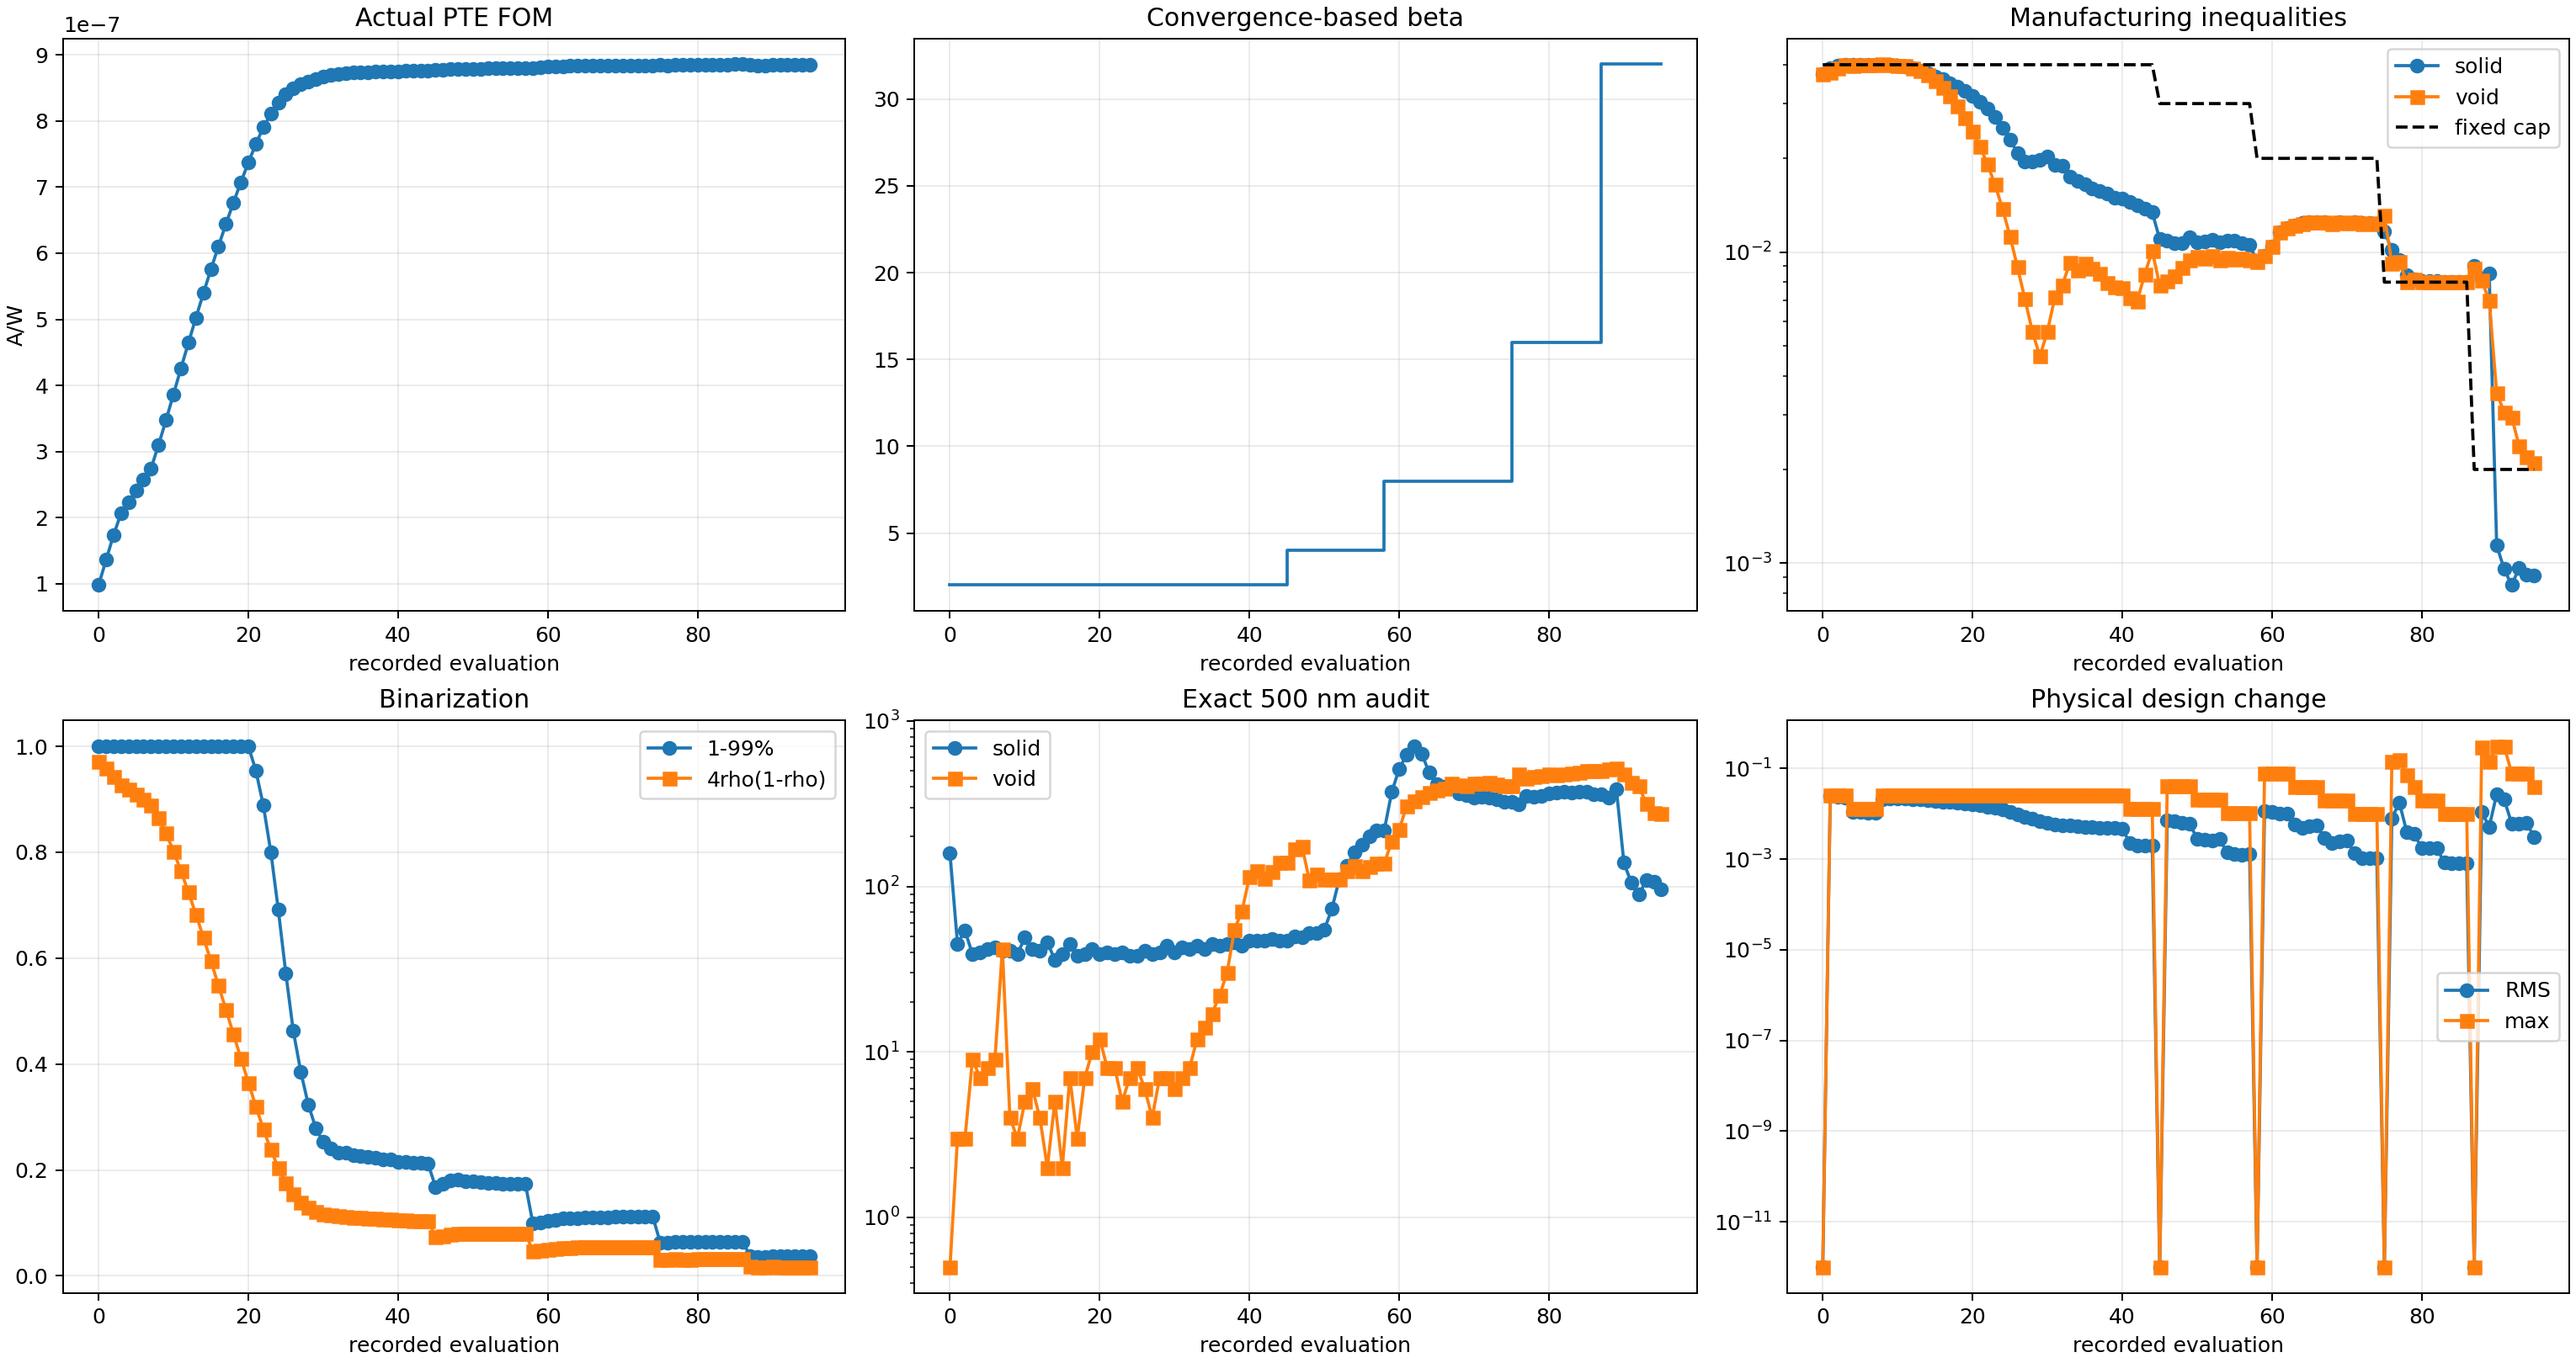
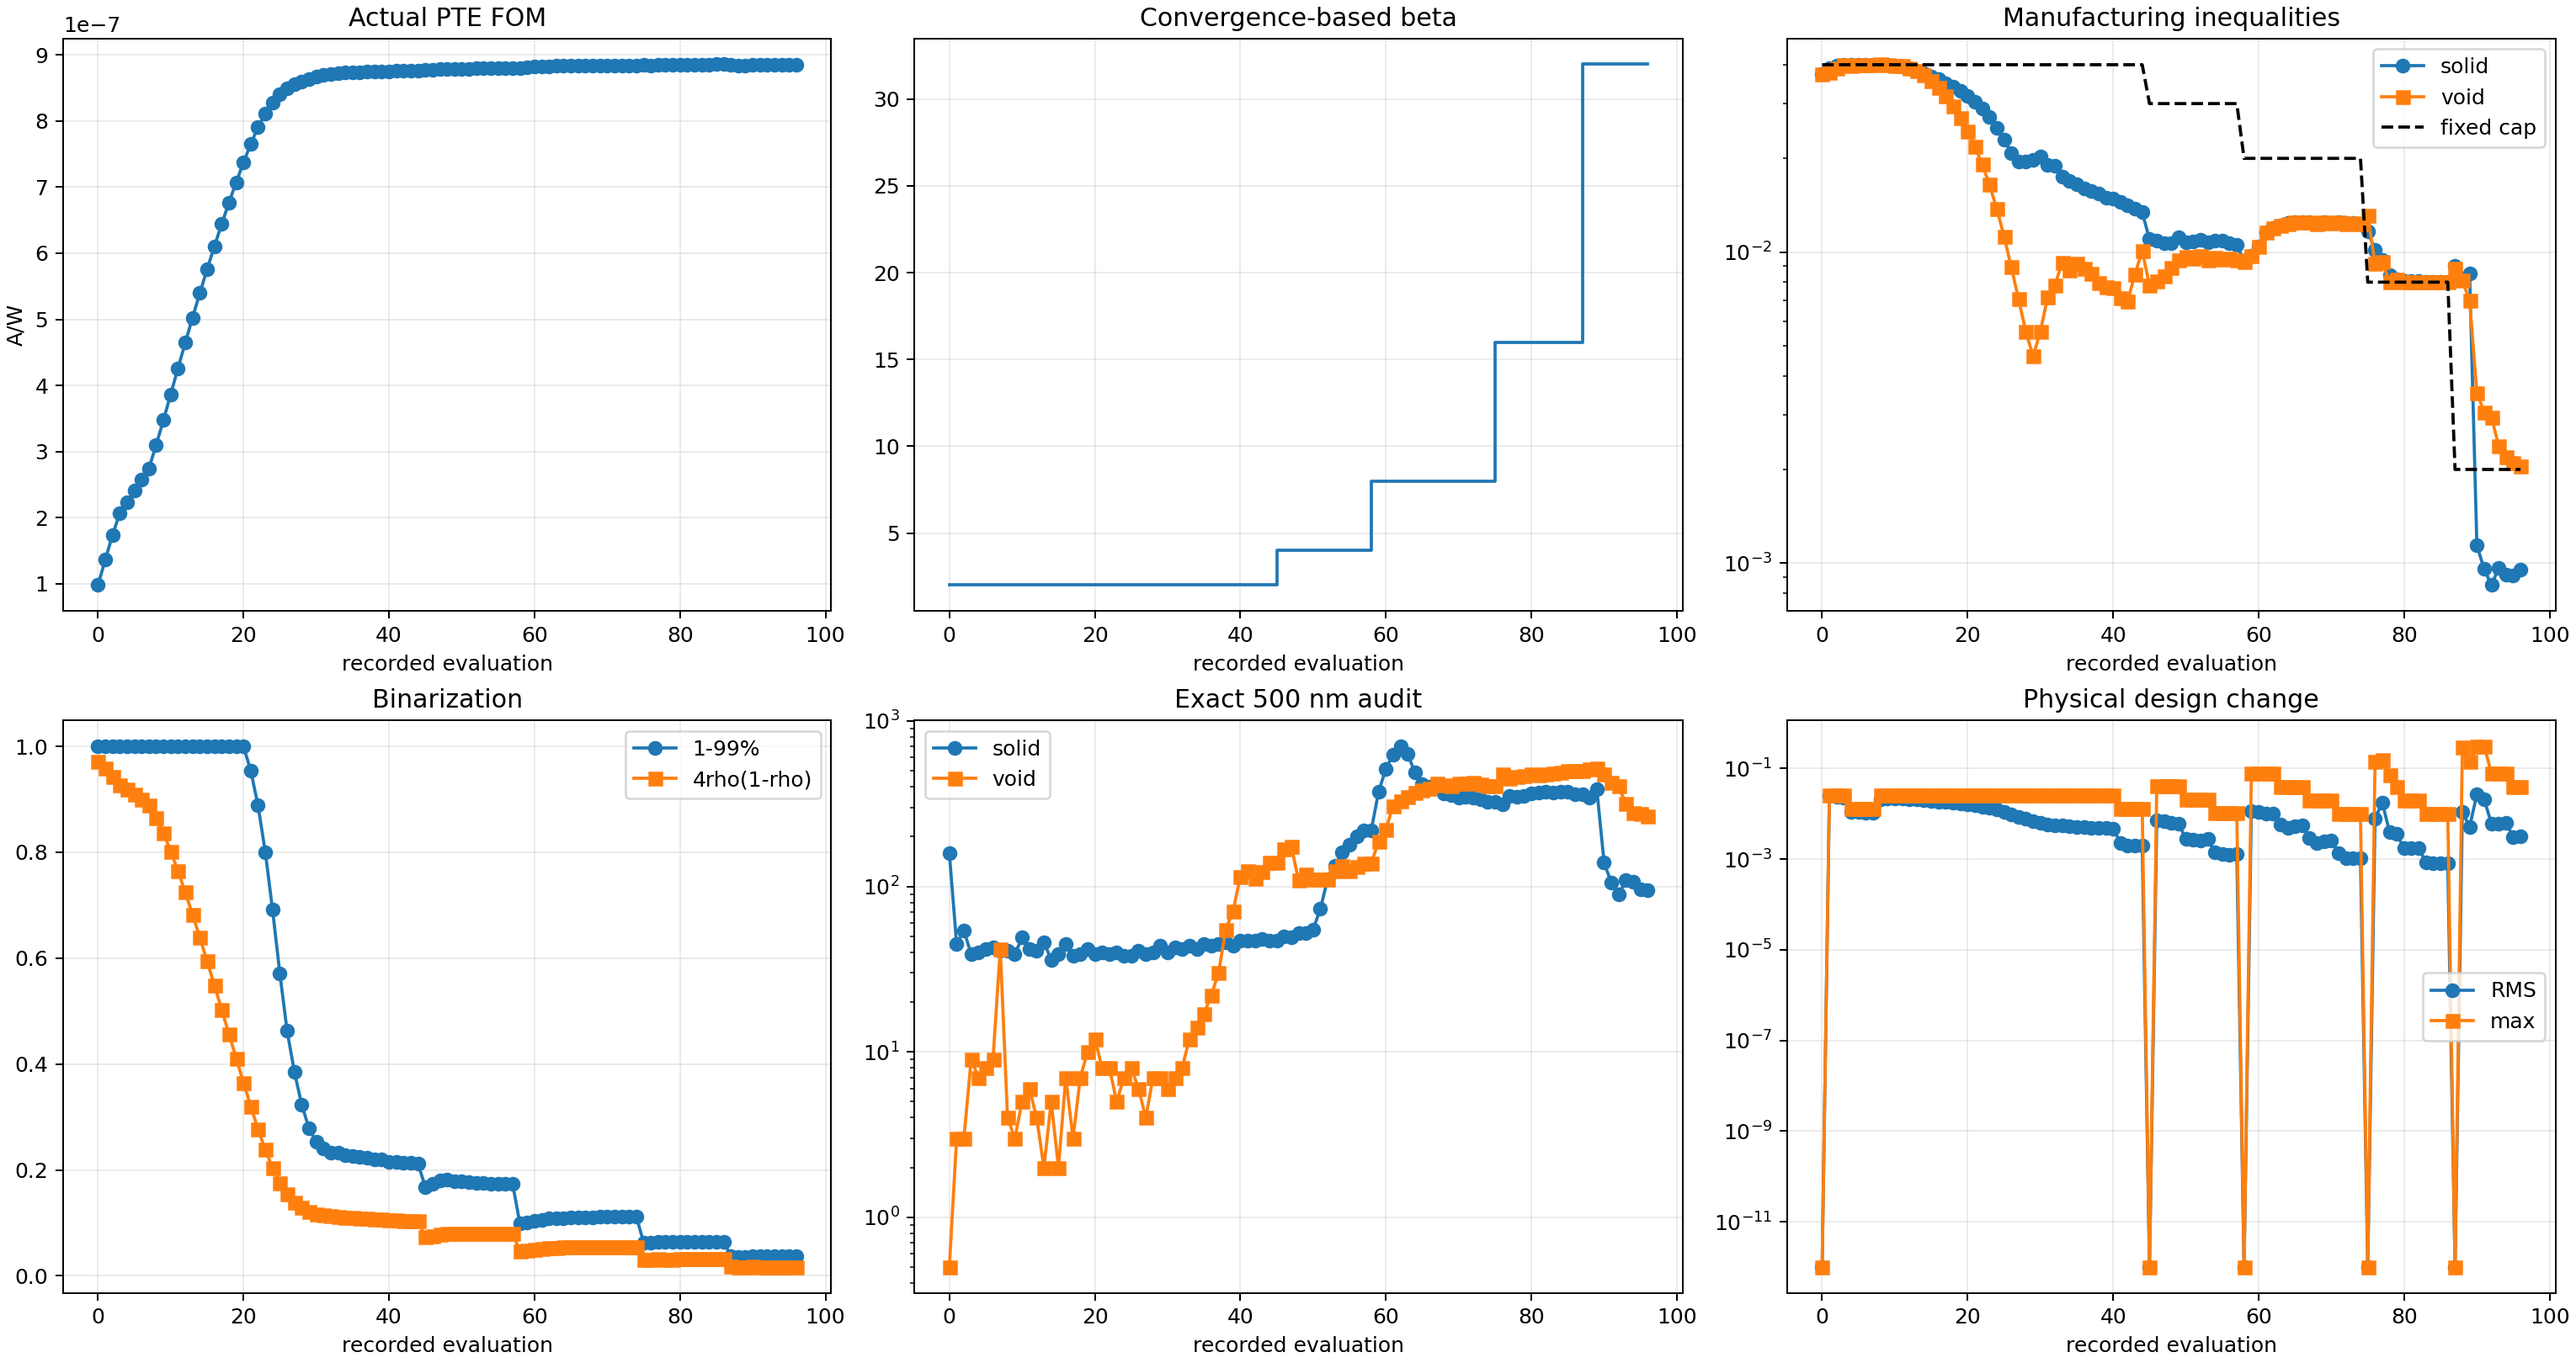
Record Run 003 run003_b032_s009_g092_accepted_mma

diff --git a/photothermal_pte/optimization_runs/run_003_gaussian10_w8p5_current_max_converged/results/OPTIMIZATION_REPORT.md b/photothermal_pte/optimization_runs/run_003_gaussian10_w8p5_current_max_converged/results/OPTIMIZATION_REPORT.md
@@ -2,12 +2,12 @@
 
 Status: `RUNNING_CONVERGENCE_BASED_CONSTRAINED_BETA_CONTINUATION`
 
-Current stage: beta=32, accepted stage iteration=8, global iteration=91.
+Current stage: beta=32, accepted stage iteration=9, global iteration=92.
 
 Constraint contract: `soft_disk_opening_500nm_v3_exact_nonincrease`.
 
-Actual FOM: `8.851445858517e-07 A/W`. Fixed-cap solid/void constraints: `9.131799e-04` / `2.102083e-03` with cap `2.000000e-03`.
+Actual FOM: `8.852264406922e-07 A/W`. Fixed-cap solid/void constraints: `9.544003e-04` / `2.049819e-03` with cap `2.000000e-03`.
 
-Exact 500 nm bad cells: solid `96`, void `276`. Stage convergence: `False` (need at least 8 accepted updates).
+Exact 500 nm bad cells: solid `95`, void `267`. Stage convergence: `False` (need at least 8 accepted updates).
 
 Beta is promoted only after fixed-inequality feasibility and a four-update FOM/design plateau; it is never promoted after one nominal update.
